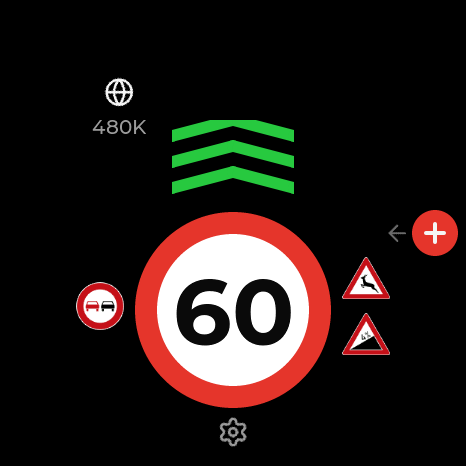
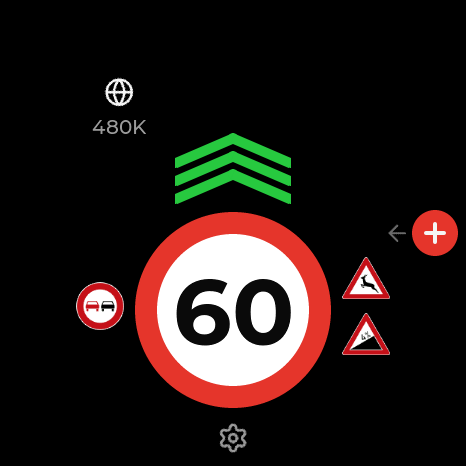
feat(ui): boot chevron sweep; fix Settings tap + chevron clipping
- Boot splash: a big stack of "clear ahead" chevrons sweeps up from
  below the screen and off the top, once, before the UI appears
  (ui/screens/boot_screen). Wired into app_main and the sim.
- Chevrons widget reworked: bolder, steeper, overlapping strokes that
  read as one continuous arrow; OVERFLOW_VISIBLE + a top inset so the
  peak is no longer clipped by the widget box. Now takes a count.
- Settings still would not open: the tileview started a vertical
  rubber-band on the gear tap and ate the click. Constrained the
  tileview to LV_DIR_HOR, and made the gear a real clickable container
  (not a bare lv_image). Added ui-callback logging to app_main to trace
  it on hardware if it still misbehaves.
- Gear nudged a touch further down.

Host tests 59/59 under -Werror. Firmware builds (1.39 MB, 56 % free) and
runs on hardware; boot sweep plays, demo loop follows.

Changed region(s): [[0.3605, 0.2403, 0.6309, 0.4506], [0.4506, 0.9013, 0.5408, 0.9914]]

diff --git a/ui/screens/home_screen.cpp b/ui/screens/home_screen.cpp
@@ -21,21 +21,22 @@ HomeScreen::HomeScreen(lv_obj_t* parent) {
     set_bg(root_, tok::kBg);
 
     badge_ = std::make_unique<StatusBadge>(root_);
-    chevrons_ = std::make_unique<Chevrons>(root_, 122, 84);
+    chevrons_ = std::make_unique<Chevrons>(root_, 116, 60, 3);
     sign_ = std::make_unique<SpeedSign>(root_, 196);
     left_ = std::make_unique<SignColumn>(root_, SignColumn::Side::Left, kSideSign, 3);
     right_ = std::make_unique<SignColumn>(root_, SignColumn::Side::Right, kSideSign, 3);
     plus_ = std::make_unique<PlusButton>(root_);
 
-    gear_ = lv_image_create(root_);
-    lv_image_set_src(gear_, ui::assets::icon(ui::assets::Icon::Settings));
-    lv_image_set_scale(gear_, 32 * 256 / 40);
-    lv_obj_set_style_image_recolor(gear_, tok::col(tok::kTextMuted), 0);
-    lv_obj_set_style_image_recolor_opa(gear_, LV_OPA_COVER, 0);
-    // Tap the gear to open Settings. It is the only way in (Settings is not a
-    // swipe tile), so a stray vertical swipe can't land there by accident.
+    // Tap the gear to open Settings — the only way in (Settings is not a swipe
+    // tile). A real clickable container, not a bare image, so the tap registers.
+    gear_ = lv_obj_create(root_);
+    lv_obj_remove_style_all(gear_);
+    lv_obj_set_size(gear_, 60, 60);
+    lv_obj_set_style_radius(gear_, LV_RADIUS_CIRCLE, 0);
+    lv_obj_set_style_bg_color(gear_, tok::col(tok::kSurfaceHi), LV_STATE_PRESSED);
+    lv_obj_set_style_bg_opa(gear_, LV_OPA_50, LV_STATE_PRESSED);
     lv_obj_add_flag(gear_, LV_OBJ_FLAG_CLICKABLE);
-    lv_obj_set_ext_click_area(gear_, 26);
+    lv_obj_clear_flag(gear_, LV_OBJ_FLAG_SCROLLABLE);
     lv_obj_add_event_cb(
         gear_,
         [](lv_event_t* e) {
@@ -43,12 +44,18 @@ HomeScreen::HomeScreen(lv_obj_t* parent) {
             if (self->settings_cb_) self->settings_cb_();
         },
         LV_EVENT_CLICKED, this);
+    lv_obj_t* gimg = lv_image_create(gear_);
+    lv_image_set_src(gimg, ui::assets::icon(ui::assets::Icon::Settings));
+    lv_image_set_scale(gimg, 32 * 256 / 40);
+    lv_obj_set_style_image_recolor(gimg, tok::col(tok::kTextMuted), 0);
+    lv_obj_set_style_image_recolor_opa(gimg, LV_OPA_COVER, 0);
+    lv_obj_center(gimg);
 
     place_center(badge_->root(), 112, 92);
-    place_center(chevrons_->root(), 233, 162);
+    place_center(chevrons_->root(), 233, 168);
     place_center(sign_->root(), 233, 310);
     plus_->set_center(435, 233);
-    place_center(gear_, 233, 432);
+    place_center(gear_, 233, 438);
 
     set_state(state_);
 }
@@ -81,7 +88,7 @@ void HomeScreen::set_state(const core::DisplayState& s) {
     right_->set(s.rightSigns);
 
     place_center(sign_->root(), 233, 310);
-    place_center(chevrons_->root(), 233, shown ? 162 : 240);
+    place_center(chevrons_->root(), 233, shown ? 168 : 240);
     // Columns flank the sign, vertically centred on it and pulled well inside the
     // round bezel.
     place_center(left_->root(), 100, 306);

diff --git a/firmware/main/app_main.cpp b/firmware/main/app_main.cpp
@@ -38,8 +38,11 @@ void i2c_check() {
 
 #if defined(CONFIG_BDSP_ENABLE_DISPLAY)
 
+#include <atomic>
+
 #include "core/app/app_runner.h"
 #include "transport/mock/mock_transport.h"
+#include "ui/screens/boot_screen.h"
 #include "ui/screens/screen_manager.h"
 #include "ui/theme/theme.h"
 
@@ -68,9 +71,10 @@ extern "C" void app_main(void) {
     mgr = new ui::ScreenManager(lv_screen_active());
     {
         ui::ScreenManager::Callbacks cb;
-        cb.report_pressed    = []() { runner.sm().open_melden(); };
-        cb.settings_pressed  = []() { runner.sm().open_settings(); };
+        cb.report_pressed    = []() { ESP_LOGI(TAG, "ui: report_pressed"); runner.sm().open_melden(); };
+        cb.settings_pressed  = []() { ESP_LOGI(TAG, "ui: settings_pressed"); runner.sm().open_settings(); };
         cb.report_submitted  = [](core::HazardType t, std::optional<int> s) {
+            ESP_LOGI(TAG, "ui: report_submitted %d", (int)t);
             runner.sm().submit_report(t, s);
         };
         cb.confirm_response  = [](bool seen) { runner.sm().answer_confirm(seen); };
@@ -78,6 +82,7 @@ extern "C" void app_main(void) {
         cb.units_changed     = [](bool mph) { runner.sm().set_units(mph); };
         cb.phone_connect     = []() { runner.sm().request_connect(); };
         cb.nav_changed       = [](ui::Tile t) {
+            ESP_LOGI(TAG, "ui: nav_changed %d", (int)t);
             if (t == ui::Tile::Melden) runner.sm().open_melden();
             else if (t == ui::Tile::Settings) runner.sm().open_settings();
             else runner.sm().go_home();
@@ -85,12 +90,21 @@ extern "C" void app_main(void) {
         cb.melden_activity   = []() { runner.sm().melden_activity(); };
         mgr->set_callbacks(std::move(cb));
     }
+    static std::atomic<bool> boot_done{false};
+    static ui::BootScreen* boot = new ui::BootScreen(lv_screen_active(),
+                                                     []() { boot_done.store(true); });
     hal::esp::lvgl_unlock();
 
     hal::Buttons* btn = hal::esp::buttons_instance();
     uint32_t ticks = 0;
     uint64_t last_beat = 0;
     while (true) {
+        if (boot && boot_done.load()) {
+            hal::esp::lvgl_lock();
+            delete boot;
+            boot = nullptr;
+            hal::esp::lvgl_unlock();
+        }
         if (btn->poll_boot() == hal::ButtonEvent::LongPress) {
             runner.sm().toggle_demo();
             ESP_LOGI(TAG, "demo toggled");

diff --git a/ui/widgets/chevrons.cpp b/ui/widgets/chevrons.cpp
@@ -1,29 +1,34 @@
 #include "ui/widgets/chevrons.h"
 
+#include <algorithm>
+
 #include "ui/theme/tokens.h"
 #include "ui/widgets/widget_util.h"
 
 namespace ui {
 
-Chevrons::Chevrons(lv_obj_t* parent, int block_w, int block_h) {
+Chevrons::Chevrons(lv_obj_t* parent, int block_w, int block_h, int count) {
+    count = std::clamp(count, 1, kMaxCount);
     root_ = make_layer(parent);
-    lv_obj_set_size(root_, block_w, block_h);
+    lv_obj_add_flag(root_, LV_OBJ_FLAG_OVERFLOW_VISIBLE);   // never clip the peaks
 
-    const int cw = block_w;              // chevron width ~ full block
-    const int ch = block_h / 5;          // each chevron's vertical extent
-    const int gap = block_h / 8;
-    const int thick = block_h / 9 + 3;
+    const int cw = block_w;
+    const int ch = block_h * 42 / 100;      // rise of each chevron
+    const int pitch = block_h * 30 / 100;   // vertical step — < ch so they read continuous
+    const int t = std::max(4, block_h * 18 / 100);   // stroke thickness
+    const int y0 = t / 2 + 1;               // keep the top peak inside the box
+    lv_obj_set_size(root_, cw, y0 + pitch * (count - 1) + ch + t / 2);
 
-    for (int i = 0; i < 3; ++i) {
-        const int top = i * (ch + gap);
-        pts_[i][0].x = 0;      pts_[i][0].y = top + ch;
-        pts_[i][1].x = cw / 2; pts_[i][1].y = top;
-        pts_[i][2].x = cw;     pts_[i][2].y = top + ch;
+    for (int i = 0; i < count; ++i) {
+        const int apex = y0 + i * pitch;
+        pts_[i][0].x = 0;      pts_[i][0].y = apex + ch;
+        pts_[i][1].x = cw / 2; pts_[i][1].y = apex;
+        pts_[i][2].x = cw;     pts_[i][2].y = apex + ch;
 
         line_[i] = lv_line_create(root_);
         lv_line_set_points(line_[i], pts_[i], 3);
         lv_obj_set_style_line_color(line_[i], tok::col(tok::kClearGreen), 0);
-        lv_obj_set_style_line_width(line_[i], thick, 0);
+        lv_obj_set_style_line_width(line_[i], t, 0);
         lv_obj_set_style_line_rounded(line_[i], true, 0);
     }
 }

diff --git a/ui/screens/boot_screen.cpp b/ui/screens/boot_screen.cpp
@@ -1,0 +1,47 @@
+#include "ui/screens/boot_screen.h"
+
+#include "ui/theme/tokens.h"
+#include "ui/widgets/chevrons.h"
+#include "ui/widgets/widget_util.h"
+
+namespace ui {
+
+namespace {
+void y_exec_cb(void* obj, int32_t v) { lv_obj_set_y(static_cast<lv_obj_t*>(obj), v); }
+}  // namespace
+
+BootScreen::BootScreen(lv_obj_t* parent, std::function<void()> on_done)
+    : done_(std::move(on_done)) {
+    root_ = make_layer(parent);
+    lv_obj_set_size(root_, 466, 466);
+    set_bg(root_, tok::kBg);
+    lv_obj_add_flag(root_, LV_OBJ_FLAG_CLICKABLE);   // swallow touches during boot
+
+    chevrons_ = std::make_unique<Chevrons>(root_, 300, 132, 4);
+    lv_obj_t* c = chevrons_->root();
+    lv_obj_update_layout(c);
+    const int cw = lv_obj_get_width(c);
+    const int chh = lv_obj_get_height(c);
+    lv_obj_set_x(c, (466 - cw) / 2);
+    lv_obj_set_y(c, 466);
+
+    lv_anim_t a;
+    lv_anim_init(&a);
+    lv_anim_set_var(&a, c);
+    lv_anim_set_exec_cb(&a, y_exec_cb);
+    lv_anim_set_values(&a, 466, -chh);          // from below the screen to above it
+    lv_anim_set_duration(&a, 1150);
+    lv_anim_set_path_cb(&a, lv_anim_path_ease_in_out);
+    lv_anim_set_user_data(&a, this);
+    lv_anim_set_completed_cb(&a, [](lv_anim_t* an) {
+        auto* self = static_cast<BootScreen*>(lv_anim_get_user_data(an));
+        if (self->done_) self->done_();
+    });
+    lv_anim_start(&a);
+}
+
+BootScreen::~BootScreen() {
+    if (root_) lv_obj_delete(root_);
+}
+
+}  // namespace ui

diff --git a/ui/widgets/chevrons.h b/ui/widgets/chevrons.h
@@ -1,4 +1,5 @@
-// ui/widgets/chevrons.h — three stacked green "clear ahead" chevrons.
+// ui/widgets/chevrons.h — a stack of green "clear ahead" chevrons. Also the
+// building block of the boot animation.
 #pragma once
 
 #include "lvgl.h"
@@ -7,16 +8,18 @@ namespace ui {
 
 class Chevrons {
 public:
-    // `block_w`/`block_h` = bounding box (e.g. 130×100 on Home).
-    Chevrons(lv_obj_t* parent, int block_w, int block_h);
+    static constexpr int kMaxCount = 6;
+
+    // `block_w`/`block_h` size a single chevron; `count` stacks that many.
+    Chevrons(lv_obj_t* parent, int block_w, int block_h, int count = 3);
 
     void set_visible(bool on);
     lv_obj_t* root() { return root_; }
 
 private:
     lv_obj_t*             root_ = nullptr;
-    lv_obj_t*             line_[3] = {nullptr, nullptr, nullptr};
-    lv_point_precise_t    pts_[3][3]{};
+    lv_obj_t*             line_[kMaxCount] = {};
+    lv_point_precise_t    pts_[kMaxCount][3]{};
 };
 
 }  // namespace ui

diff --git a/sim/main.cpp b/sim/main.cpp
@@ -20,6 +20,7 @@
 #include "sim/screenshot.h"
 #include "sim/sim_audio.h"
 #include "transport/mock/mock_transport.h"
+#include "ui/screens/boot_screen.h"
 #include "ui/screens/screen_manager.h"
 #include "ui/theme/theme.h"
 
@@ -197,10 +198,19 @@ int main(int argc, char** argv) {
     if (demo_start) toggle_demo();
     else load_static(sim::scenario_at(0));
 
+    // Boot splash (skip in --shot).
+    std::atomic<bool> boot_done{false};
+    auto* boot = new ui::BootScreen(lv_screen_active(), [&]() { boot_done = true; });
+
     uint32_t frames = 0, fps_t0 = SDL_GetTicks();
     while (!g_quit) {
         step(SDL_GetTicks());
         uint32_t idle = lv_timer_handler();
+
+        if (boot && boot_done) {
+            delete boot;
+            boot = nullptr;
+        }
 
         if (fps_mode && ++frames && SDL_GetTicks() - fps_t0 >= 1000) {
             std::printf("fps: %u\n", frames * 1000 / (SDL_GetTicks() - fps_t0));

diff --git a/ui/screens/boot_screen.h b/ui/screens/boot_screen.h
@@ -1,0 +1,29 @@
+// ui/screens/boot_screen.h — startup splash: a big stack of "clear ahead"
+// chevrons sweeps up from below the screen and off the top, once.
+#pragma once
+
+#include <functional>
+#include <memory>
+
+#include "lvgl.h"
+
+namespace ui {
+
+class Chevrons;
+
+class BootScreen {
+public:
+    // `on_done` fires when the sweep finishes; the owner then deletes this.
+    BootScreen(lv_obj_t* parent, std::function<void()> on_done);
+    ~BootScreen();
+
+    BootScreen(const BootScreen&) = delete;
+    BootScreen& operator=(const BootScreen&) = delete;
+
+private:
+    lv_obj_t*                 root_ = nullptr;
+    std::unique_ptr<Chevrons> chevrons_;
+    std::function<void()>     done_;
+};
+
+}  // namespace ui

diff --git a/ui/screens/screen_manager.cpp b/ui/screens/screen_manager.cpp
@@ -24,6 +24,9 @@ ScreenManager::ScreenManager(lv_obj_t* parent) {
     lv_obj_set_style_border_width(tv_, 0, 0);
     lv_obj_set_style_pad_all(tv_, 0, 0);
     lv_obj_set_scrollbar_mode(tv_, LV_SCROLLBAR_MODE_OFF);
+    // Horizontal only: a vertical touch (e.g. tapping the gear near the bottom
+    // edge) must NOT start a vertical rubber-band that swallows the click.
+    lv_obj_set_scroll_dir(tv_, LV_DIR_HOR);
 
     // Only Home <-> Melden are swipe tiles. Settings is a gated layer (below).
     tile_home_   = lv_tileview_add_tile(tv_, 0, 0, LV_DIR_RIGHT);
